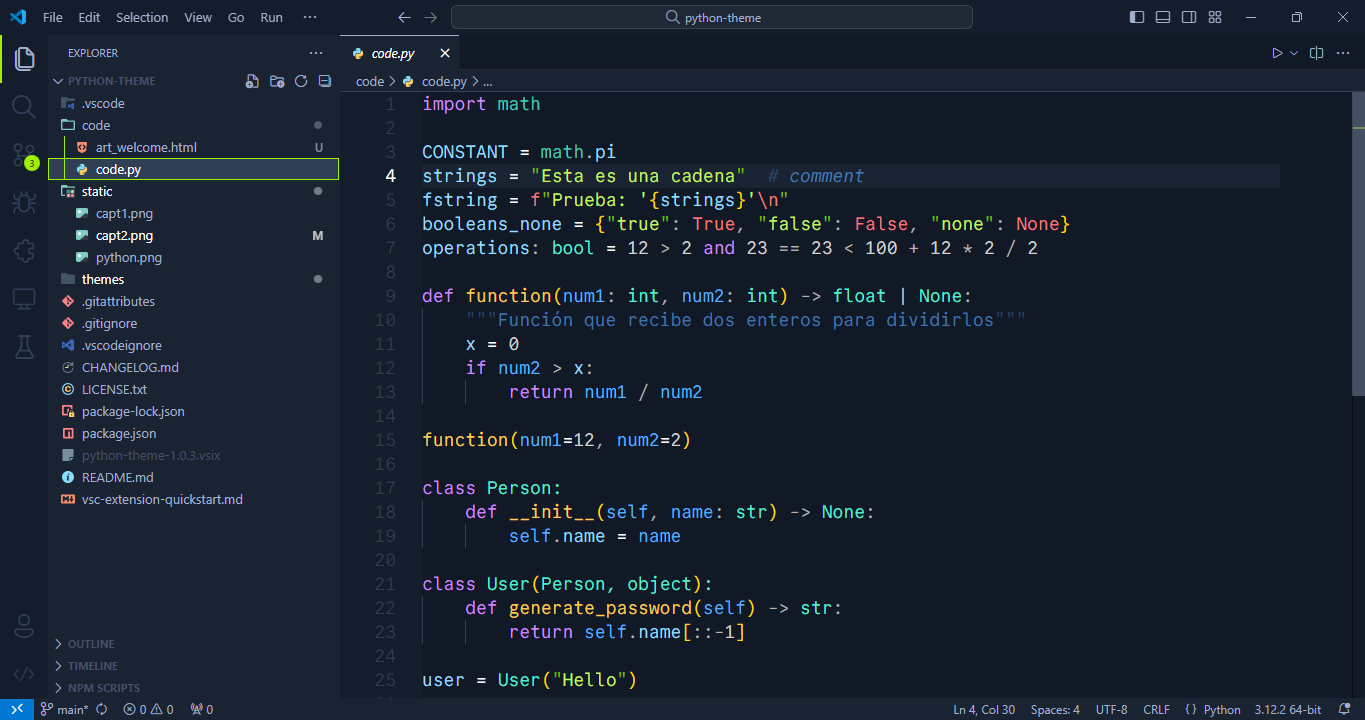
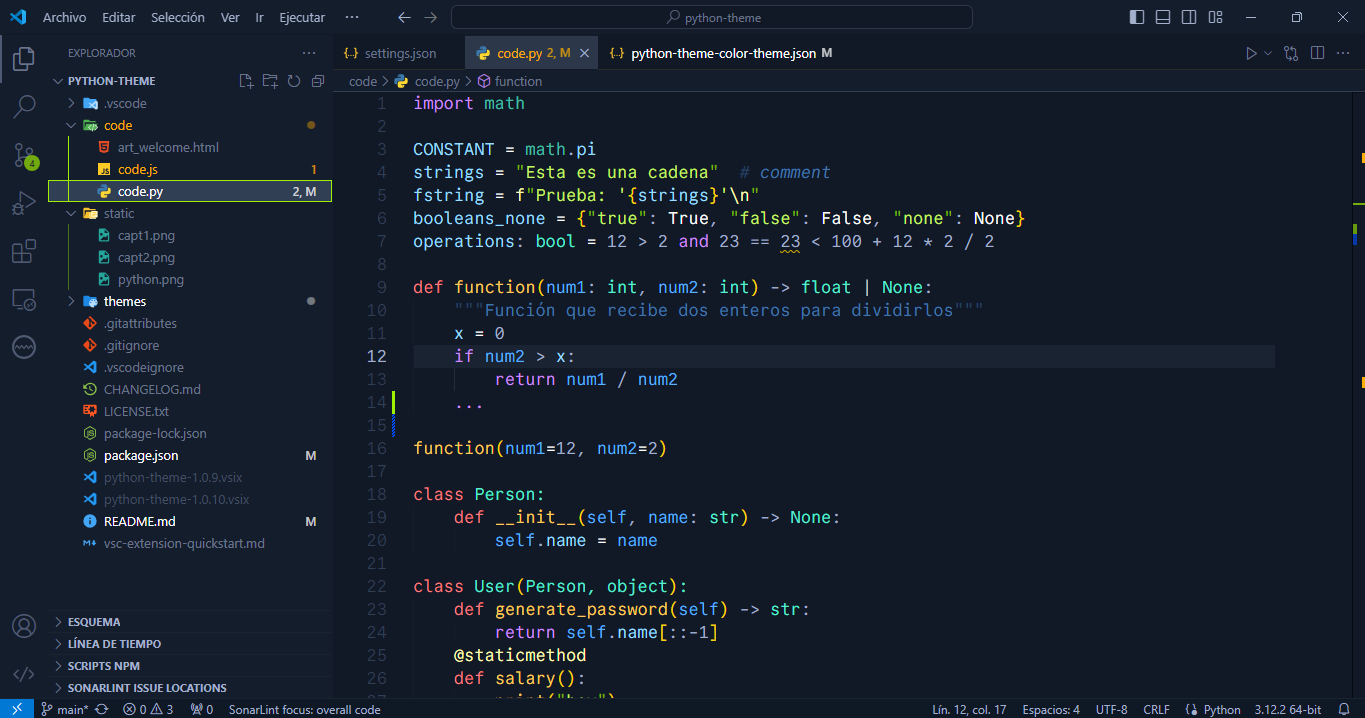
release: 1.0.10

diff --git a/code/code.py b/code/code.py
@@ -11,7 +11,8 @@ def function(num1: int, num2: int) -> float | None:
     x = 0
     if num2 > x:
         return num1 / num2
-
+    ...
+    
 function(num1=12, num2=2)
 
 class Person:
